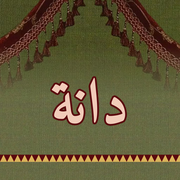
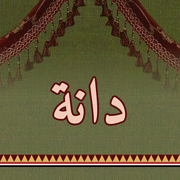
إضافة ألوان العلم اليمني بشكل هادئ في الصفحات والبطاقة والأيقونة (نسخة 17)
Claude-Session: https://claude.ai/code/session_018USBukDpyXrgeSeH7knfhJ

Changed region(s): [[0.0, 0.8889, 1.0, 0.9444]]

diff --git a/index.html b/index.html
@@ -117,8 +117,10 @@ nav button.on{color:#fff;border-color:var(--gold);font-weight:700}
 /* ===== Yemeni staff/admin ===== */
 #staff{--wine:#5a0a0e;--rose:#f1cbb9;--sand:#efe2c4;--gold:#b8924f;--gold2:#d9b25a;background:#646a40 url(fabric.jpg) repeat;background-size:220px;min-height:100vh}
 #staff .top{background:var(--wine) url(tent.jpg) center 0/100% auto no-repeat;background-blend-mode:multiply;padding-top:18px;box-shadow:0 4px 14px rgba(0,0,0,.3);position:sticky}
-#staff .top::after{content:"";display:block;height:12px;margin:0 -16px;
-  background:linear-gradient(135deg,var(--wine) 25%,transparent 25%) -6px 0/12px 12px,linear-gradient(225deg,var(--wine) 25%,transparent 25%) -6px 0/12px 12px,linear-gradient(315deg,var(--gold2) 25%,transparent 25%) 0 0/12px 12px,linear-gradient(45deg,var(--gold2) 25%,transparent 25%) 0 0/12px 12px;background-color:#3f070a}
+#staff .top::after{content:"";display:block;height:19px;margin:0 -16px;
+  background:linear-gradient(#ce1126 0 33.34%,#fff 33.34% 66.67%,#000 66.67%) 0 100%/100% 6px no-repeat,
+  linear-gradient(135deg,var(--wine) 25%,transparent 25%) -6px 0/12px 12px repeat-x,linear-gradient(225deg,var(--wine) 25%,transparent 25%) -6px 0/12px 12px repeat-x,
+  linear-gradient(315deg,var(--gold2) 25%,transparent 25%) 0 0/12px 12px repeat-x,linear-gradient(45deg,var(--gold2) 25%,transparent 25%) 0 0/12px 12px repeat-x;background-color:#3f070a}
 #staff .top h2{font-family:"Amiri",serif;font-weight:700;font-size:24px;color:var(--rose);text-shadow:1px 1px 0 #2a0305,-1px -1px 0 #2a0305}
 #staff .top h2 small{font-family:-apple-system,Tahoma,sans-serif;color:var(--gold2);font-size:13px;align-self:center}
 #staff nav button{font-family:"Amiri",serif;font-size:18px;color:#ead7bd}
@@ -144,11 +146,19 @@ nav button.on{color:#fff;border-color:var(--gold);font-weight:700}
 #pinBox{text-align:center}
 #staff .row2 .btn{font-size:16px;padding:14px 8px}
 #pinBox::before{content:"غمرة دانة";display:block;font-family:"Aref Ruqaa",serif;font-size:34px;color:var(--wine);margin-bottom:4px}
+#pinBox::after{content:"";display:block;margin:14px auto 0;width:44px;height:7px;border-radius:1.5px;background:linear-gradient(#ce1126 0 33.34%,#fff 33.34% 66.67%,#000 66.67%);box-shadow:0 0 0 1px rgba(184,146,79,.85)}
 .result::before,.result::after{content:"";position:absolute;left:0;right:0;height:16px;opacity:.55;
   background:linear-gradient(135deg,#fff 25%,transparent 25%) -8px 0/16px 16px,linear-gradient(225deg,#fff 25%,transparent 25%) -8px 0/16px 16px}
 .result::before{top:0}.result::after{bottom:0;transform:rotate(180deg)}
 .result h3{font-family:"Amiri",serif;font-weight:700;font-size:44px;margin:12px 0 6px}
 .result p{font-family:"Amiri",serif;font-size:22px}
+/* ===== Yemeni flag (subtle) ===== */
+.ye{display:inline-block;width:44px;height:7px;border-radius:1.5px;vertical-align:middle;
+  background:linear-gradient(#ce1126 0 33.34%,#fff 33.34% 66.67%,#000 66.67%);box-shadow:0 0 0 1px rgba(217,178,90,.85),0 1px 3px rgba(0,0,0,.3)}
+.ye.sm{width:28px;height:5px}
+#guest .yewrap{display:flex;align-items:center;justify-content:center;gap:10px;margin:10px 0 0}
+#guest .yewrap::before,#guest .yewrap::after{content:"";height:1px;width:46px;background:linear-gradient(90deg,transparent,rgba(239,226,196,.7),transparent)}
+#staff .yeline{height:3px;margin:0 -16px;background:linear-gradient(#ce1126 0 33.34%,#fff 33.34% 66.67%,#000 66.67%);opacity:.9}
 .toast{position:fixed;bottom:calc(20px + env(safe-area-inset-bottom,0px));left:50%;transform:translateX(-50%);background:var(--ink);color:#fff;padding:10px 16px;border-radius:10px;font-size:14px;z-index:30}
 </style>
 </head>
@@ -183,7 +193,7 @@ nav button.on{color:#fff;border-color:var(--gold);font-weight:700}
     <div class="intro">
       <h1 class="title">غمرة دانة</h1>
       <p class="verse">ليلتك وانتي<br>قمرها</p>
-      <div><span class="date">28.11.26</span><p class="hijri">السبت 18 جمادى الآخرة 1448هـ</p></div>
+      <div><span class="date">28.11.26</span><p class="hijri">السبت 18 جمادى الآخرة 1448هـ</p><div class="yewrap" aria-hidden="true"><span class="ye"></span></div></div>
       <div>
         <div class="zig" aria-hidden="true"></div>
         <p class="hostl">حياكم الله بضيافة</p>
@@ -233,7 +243,7 @@ nav button.on{color:#fff;border-color:var(--gold);font-weight:700}
       <p class="note" id="gDoneS"></p>
       <button class="btn sec" id="gBack" style="margin-top:12px">رجوع</button>
     </div>
-    <p class="foot">بانتظاركم 🤍</p>
+    <p class="foot">بانتظاركم 🤍 <span class="ye sm" aria-hidden="true"></span></p>
   </div>
 </div>
 
@@ -12751,7 +12761,8 @@ async function renderCard(no,code,name,comp){
   rr(x0,y0,x1,y1,22);x.fillStyle='#f6eede';x.fill();x.lineWidth=5;x.strokeStyle='#58060a';x.stroke();
   rr(x0+9,y0+9,x1-9,y1-9,16);x.lineWidth=2;x.strokeStyle='#c9a36e';x.stroke();
   x.direction='rtl';x.textAlign='center';x.textBaseline='middle';
-  x.fillStyle='#58060a';x.font='700 28px -apple-system,Tahoma,sans-serif';x.fillText('بطاقة دخول',cx,y0+40);
+  x.fillStyle='#58060a';x.font='700 28px -apple-system,Tahoma,sans-serif';x.fillText('بطاقة دخول',cx,y0+36);
+  {const fw=54,fh=7,fx=cx-fw/2,fy=y0+54;x.fillStyle='#b8924f';x.fillRect(fx-1,fy-1,fw+2,fh+2);x.fillStyle='#ce1126';x.fillRect(fx,fy,fw,fh/3);x.fillStyle='#fff';x.fillRect(fx,fy+fh/3,fw,fh/3);x.fillStyle='#000';x.fillRect(fx,fy+2*fh/3,fw,fh/3)}
   const q=qrcode(0,'M');q.addData(code);q.make();const n=q.getModuleCount(),qs=320,m=2,cell=qs/(n+2*m);
   x.fillStyle='#fff';x.fillRect(cx-qs/2,y0+66,qs,qs);x.fillStyle='#280004';
   for(let r=0;r<n;r++)for(let k=0;k<n;k++)if(q.isDark(r,k))x.fillRect(Math.floor(cx-qs/2+(k+m)*cell),Math.floor(y0+66+(r+m)*cell),Math.ceil(cell),Math.ceil(cell));
